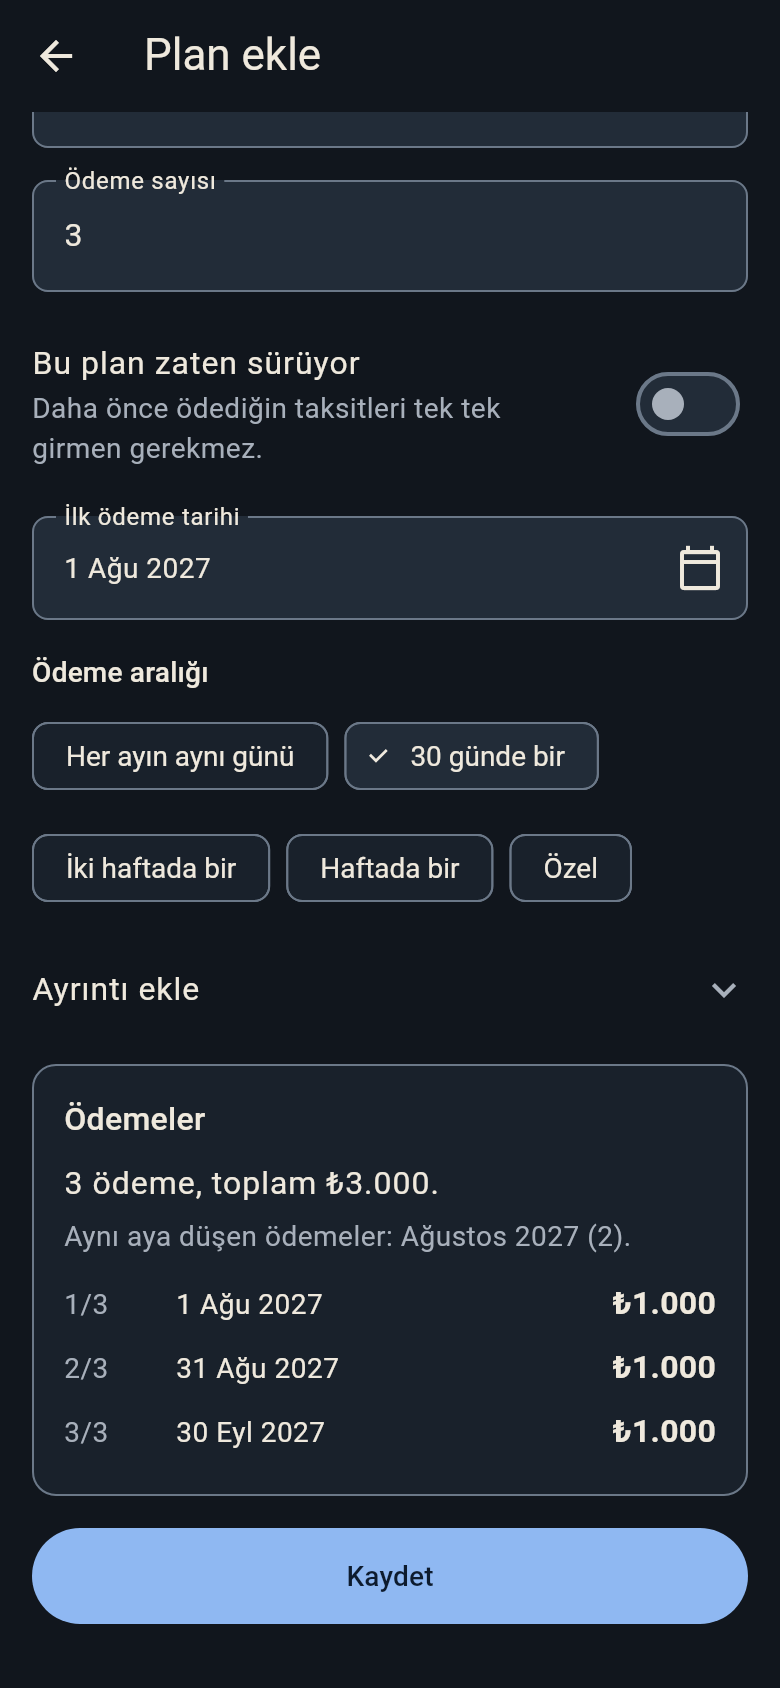
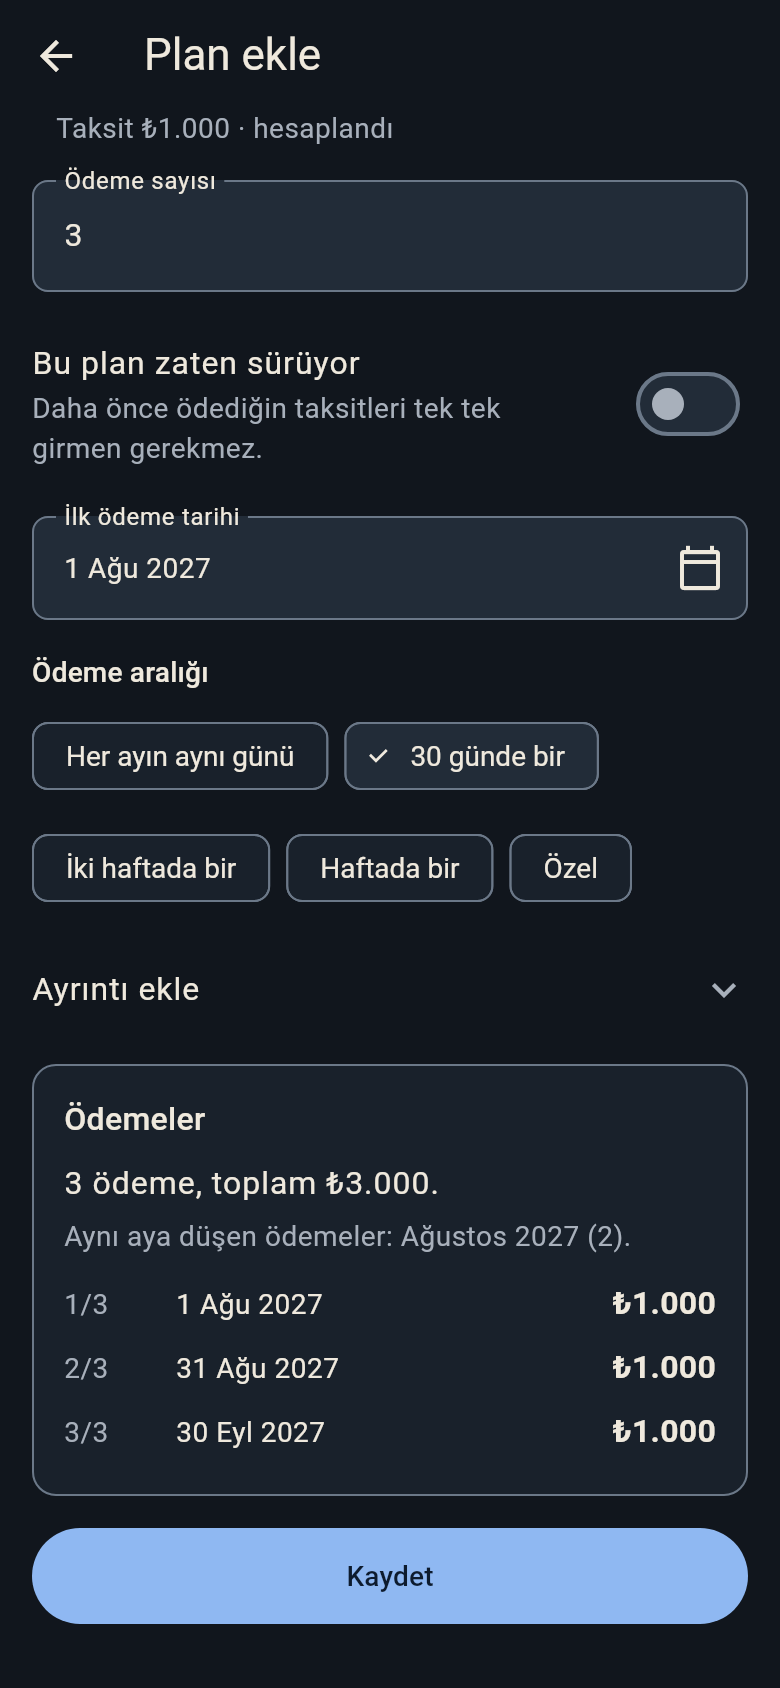
Add amount entry goldens; refresh add-plan screenshots
Claude-Session: https://claude.ai/code/session_019bHdR4wHT2iCfJzqLhs9gY

Changed region(s): [[0.0308, 0.0616, 0.9538, 0.0924]]

diff --git a/test/golden/screens_golden_test.dart b/test/golden/screens_golden_test.dart
@@ -496,6 +496,47 @@ void main() {
         });
       }
 
+      // Total or installment: 1,000 / 3 does not divide evenly; Deniz
+      // knows only "850 a month, 9 months".
+      for (final (lang, locale, addPlan, monthly, installment) in [
+        ('tr', const Locale('tr', 'TR'), 'Plan ekle', 'Aylık taksit', 'Taksit'),
+        (
+          'en',
+          const Locale('en', 'US'),
+          'Add plan',
+          'Monthly installments',
+          'Installment',
+        ),
+      ]) {
+        for (final (entry, amount, count) in [
+          ('total', '1000', '3'),
+          ('installment', '850', '9'),
+        ]) {
+          testWidgets('add plan, $entry entry, $lang', (tester) async {
+            await start(tester, locale: locale);
+            await tester.tap(find.text(addPlan));
+            await tester.pumpAndSettle();
+            await tester.tap(find.widgetWithText(ChoiceChip, monthly));
+            await tester.pumpAndSettle();
+            if (entry == 'installment') {
+              await tester.tap(
+                find.descendant(
+                  of: find.byKey(const ValueKey('amount-entry')),
+                  matching: find.text(installment),
+                ),
+              );
+              await tester.pumpAndSettle();
+            }
+            await tester.enterText(find.byKey(const ValueKey('source')), 'Zip');
+            await tester.enterText(find.byKey(ValueKey(entry)), amount);
+            await tester.enterText(find.byKey(const ValueKey('count')), count);
+            FocusManager.instance.primaryFocus?.unfocus();
+            await tester.pumpAndSettle();
+            await shoot(tester, '34-amount-entry-$entry-$lang-$theme');
+          });
+        }
+      }
+
       // "Pay later" in both languages (today: 20 November 2026).
       for (final (lang, locale, plansTab, addPlan, payLater, nextMonth, auto)
           in [
